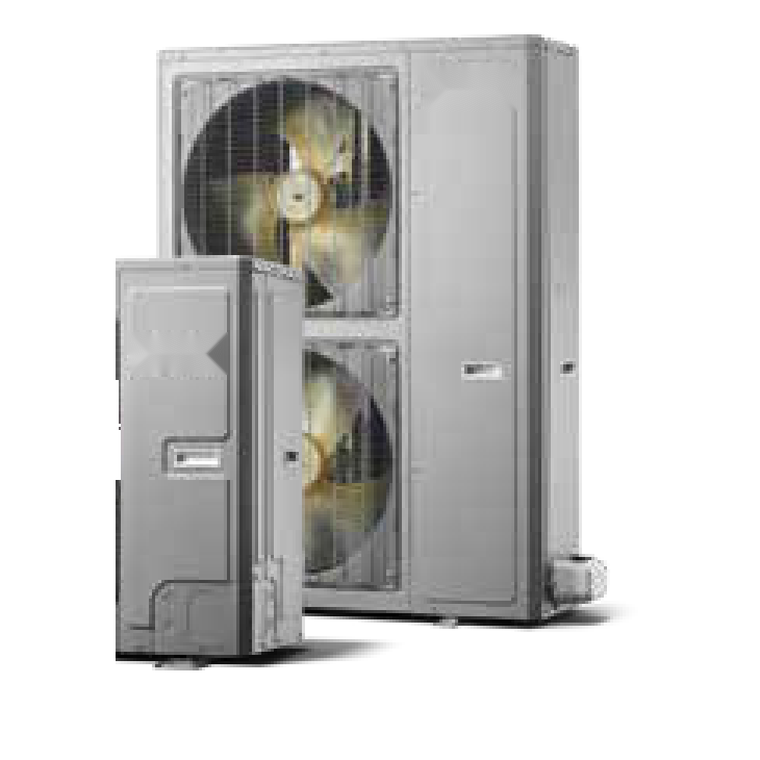
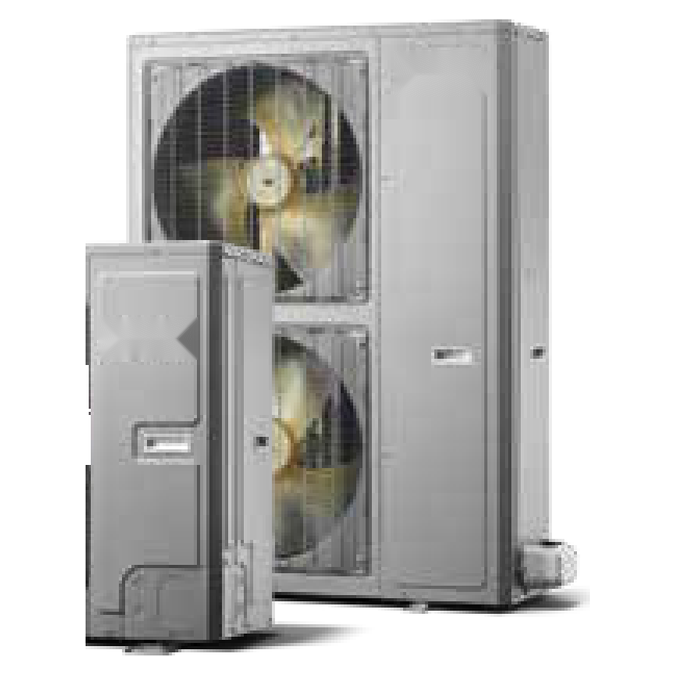
Fill product images to tiles (trim HP + 97% furnace), larger system-builder thumbnails, mobile-friendly media sizing
Claude-Session: https://claude.ai/code/session_01LAW1tA1YjyeHa2KRBjPEgT

diff --git a/index.html b/index.html
@@ -166,8 +166,8 @@ section{padding-block:clamp(1.8rem,4vw,2.8rem)}
 .grid{display:grid;grid-template-columns:repeat(auto-fill,minmax(232px,1fr));gap:1rem}
 .card{background:var(--surface);border:1px solid var(--line);border-radius:var(--radius);overflow:hidden;display:flex;flex-direction:column;box-shadow:var(--shadow);transition:border-color .15s,transform .1s}
 .card:hover{border-color:var(--accent);transform:translateY(-2px)}
-.card .media{aspect-ratio:1;background:var(--media);display:grid;place-items:center;padding:1rem;cursor:pointer}
-.card .media img{max-height:100%;object-fit:contain}
+.card .media{aspect-ratio:1;background:var(--media);display:grid;place-items:center;padding:.55rem;cursor:pointer}
+.card .media img{width:100%;height:100%;object-fit:contain}
 .card .body{padding:.85rem;display:flex;flex-direction:column;gap:.45rem;flex:1}
 .card .kicker{font-size:.68rem;text-transform:uppercase;letter-spacing:.1em;color:var(--muted);font-family:var(--head);font-weight:600}
 .card h3{font-size:1.05rem;cursor:pointer;text-transform:uppercase;letter-spacing:.01em;line-height:1.08}
@@ -196,7 +196,7 @@ section{padding-block:clamp(1.8rem,4vw,2.8rem)}
 .bundle .bh .ton{font-family:var(--head);font-weight:700;color:var(--accent);font-size:.84rem;white-space:nowrap}
 .bundle .parts{padding:.7rem .9rem;display:flex;flex-direction:column;gap:.5rem;flex:1}
 .part{display:flex;gap:.6rem;align-items:center}
-.part .pimg{width:42px;height:42px;border-radius:7px;background:var(--media);display:grid;place-items:center;padding:4px;flex:0 0 auto;border:1px solid var(--line)}
+.part .pimg{width:54px;height:54px;border-radius:7px;background:var(--media);display:grid;place-items:center;padding:4px;flex:0 0 auto;border:1px solid var(--line)}
 .part .pimg img{max-width:100%;max-height:100%;object-fit:contain}
 .part .pt{font-size:.8rem;line-height:1.25}
 .part .pt span{display:block;color:var(--muted);font-size:.7rem;font-family:var(--head)}
@@ -215,7 +215,7 @@ section{padding-block:clamp(1.8rem,4vw,2.8rem)}
 
 .detail{display:grid;grid-template-columns:1fr 1fr;gap:1.8rem}
 .detail .dimg{background:var(--media);border:1px solid var(--line);border-radius:var(--radius);aspect-ratio:1;display:grid;place-items:center;padding:2rem}
-.detail .dimg img{max-height:100%;object-fit:contain}
+.detail .dimg img{width:100%;height:100%;object-fit:contain}
 .detail h1{font-size:clamp(1.6rem,3.6vw,2.2rem);margin:.3rem 0;text-transform:uppercase;letter-spacing:.01em}
 .spec{width:100%;border-collapse:collapse;margin:1rem 0;font-size:.9rem}
 .spec th,.spec td{text-align:left;padding:.55rem .2rem;border-bottom:1px solid var(--line)}
